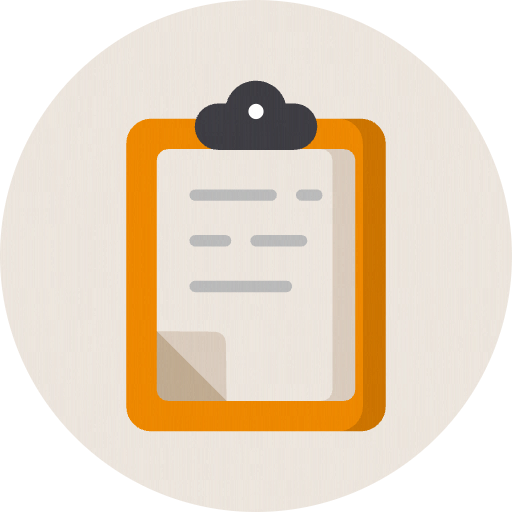
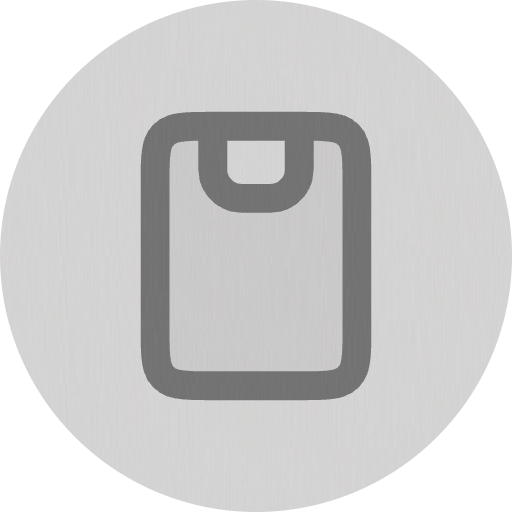
fix: field styling is back

diff --git a/Sources/NerwUI/NerwPanelView.swift b/Sources/NerwUI/NerwPanelView.swift
@@ -133,13 +133,13 @@ public class NerwPanelView: NSView {
 
         // Content View
         contentView.translatesAutoresizingMaskIntoConstraints = false
-        baseView.addSubview(contentView)
+        effectView.addSubview(contentView)
 
         NSLayoutConstraint.activate([
-            contentView.leadingAnchor.constraint(equalTo: baseView.leadingAnchor),
-            contentView.trailingAnchor.constraint(equalTo: baseView.trailingAnchor),
-            contentView.topAnchor.constraint(equalTo: baseView.topAnchor),
-            contentView.bottomAnchor.constraint(equalTo: baseView.bottomAnchor),
+            contentView.leadingAnchor.constraint(equalTo: effectView.leadingAnchor),
+            contentView.trailingAnchor.constraint(equalTo: effectView.trailingAnchor),
+            contentView.topAnchor.constraint(equalTo: effectView.topAnchor),
+            contentView.bottomAnchor.constraint(equalTo: effectView.bottomAnchor),
         ])
     }
 

diff --git a/Sources/NerwUI/SplitPane/SplitPaneViewController.swift b/Sources/NerwUI/SplitPane/SplitPaneViewController.swift
@@ -26,7 +26,7 @@ public class SplitPaneViewController: NSViewController, NSTableViewDataSource, N
 
     private let tableView = NSTableView()
     private let previewView = SplitPanePreviewView()
-    private let searchField = NSTextField()
+    private let searchField = ThemedTextField()
     private let searchIconView = NSImageView()
 
     private var selectedIndex: Int = 0
